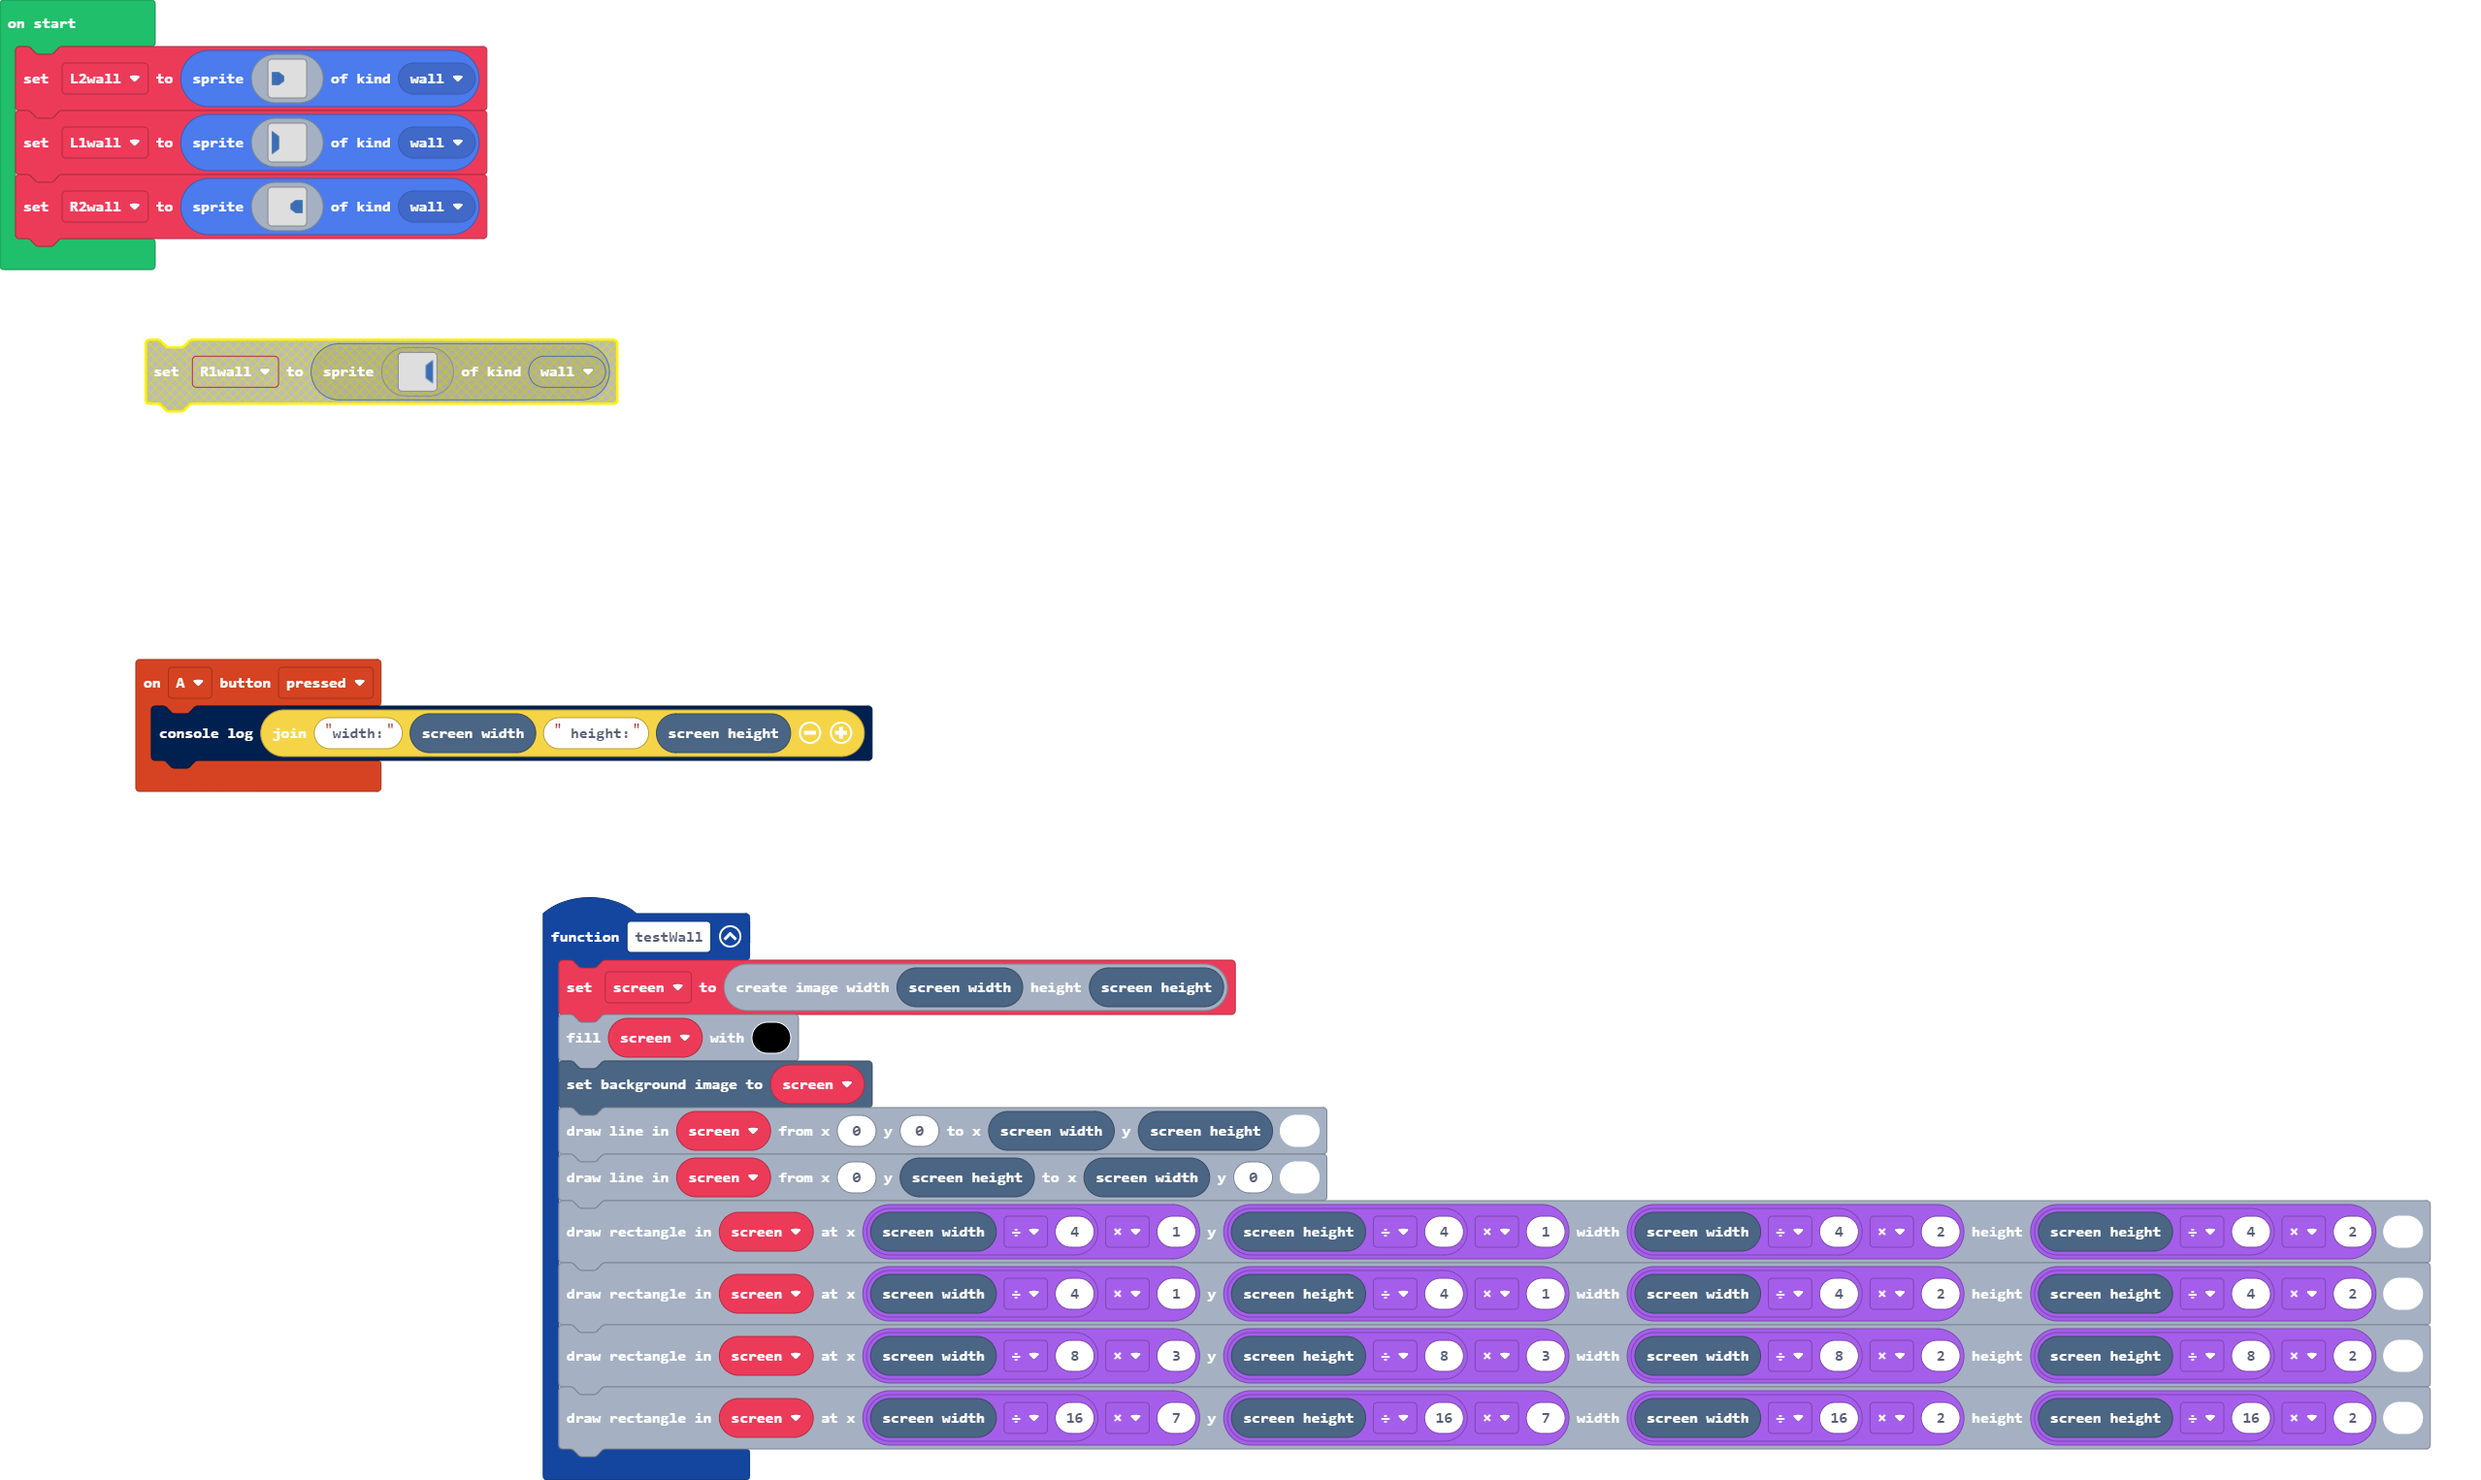
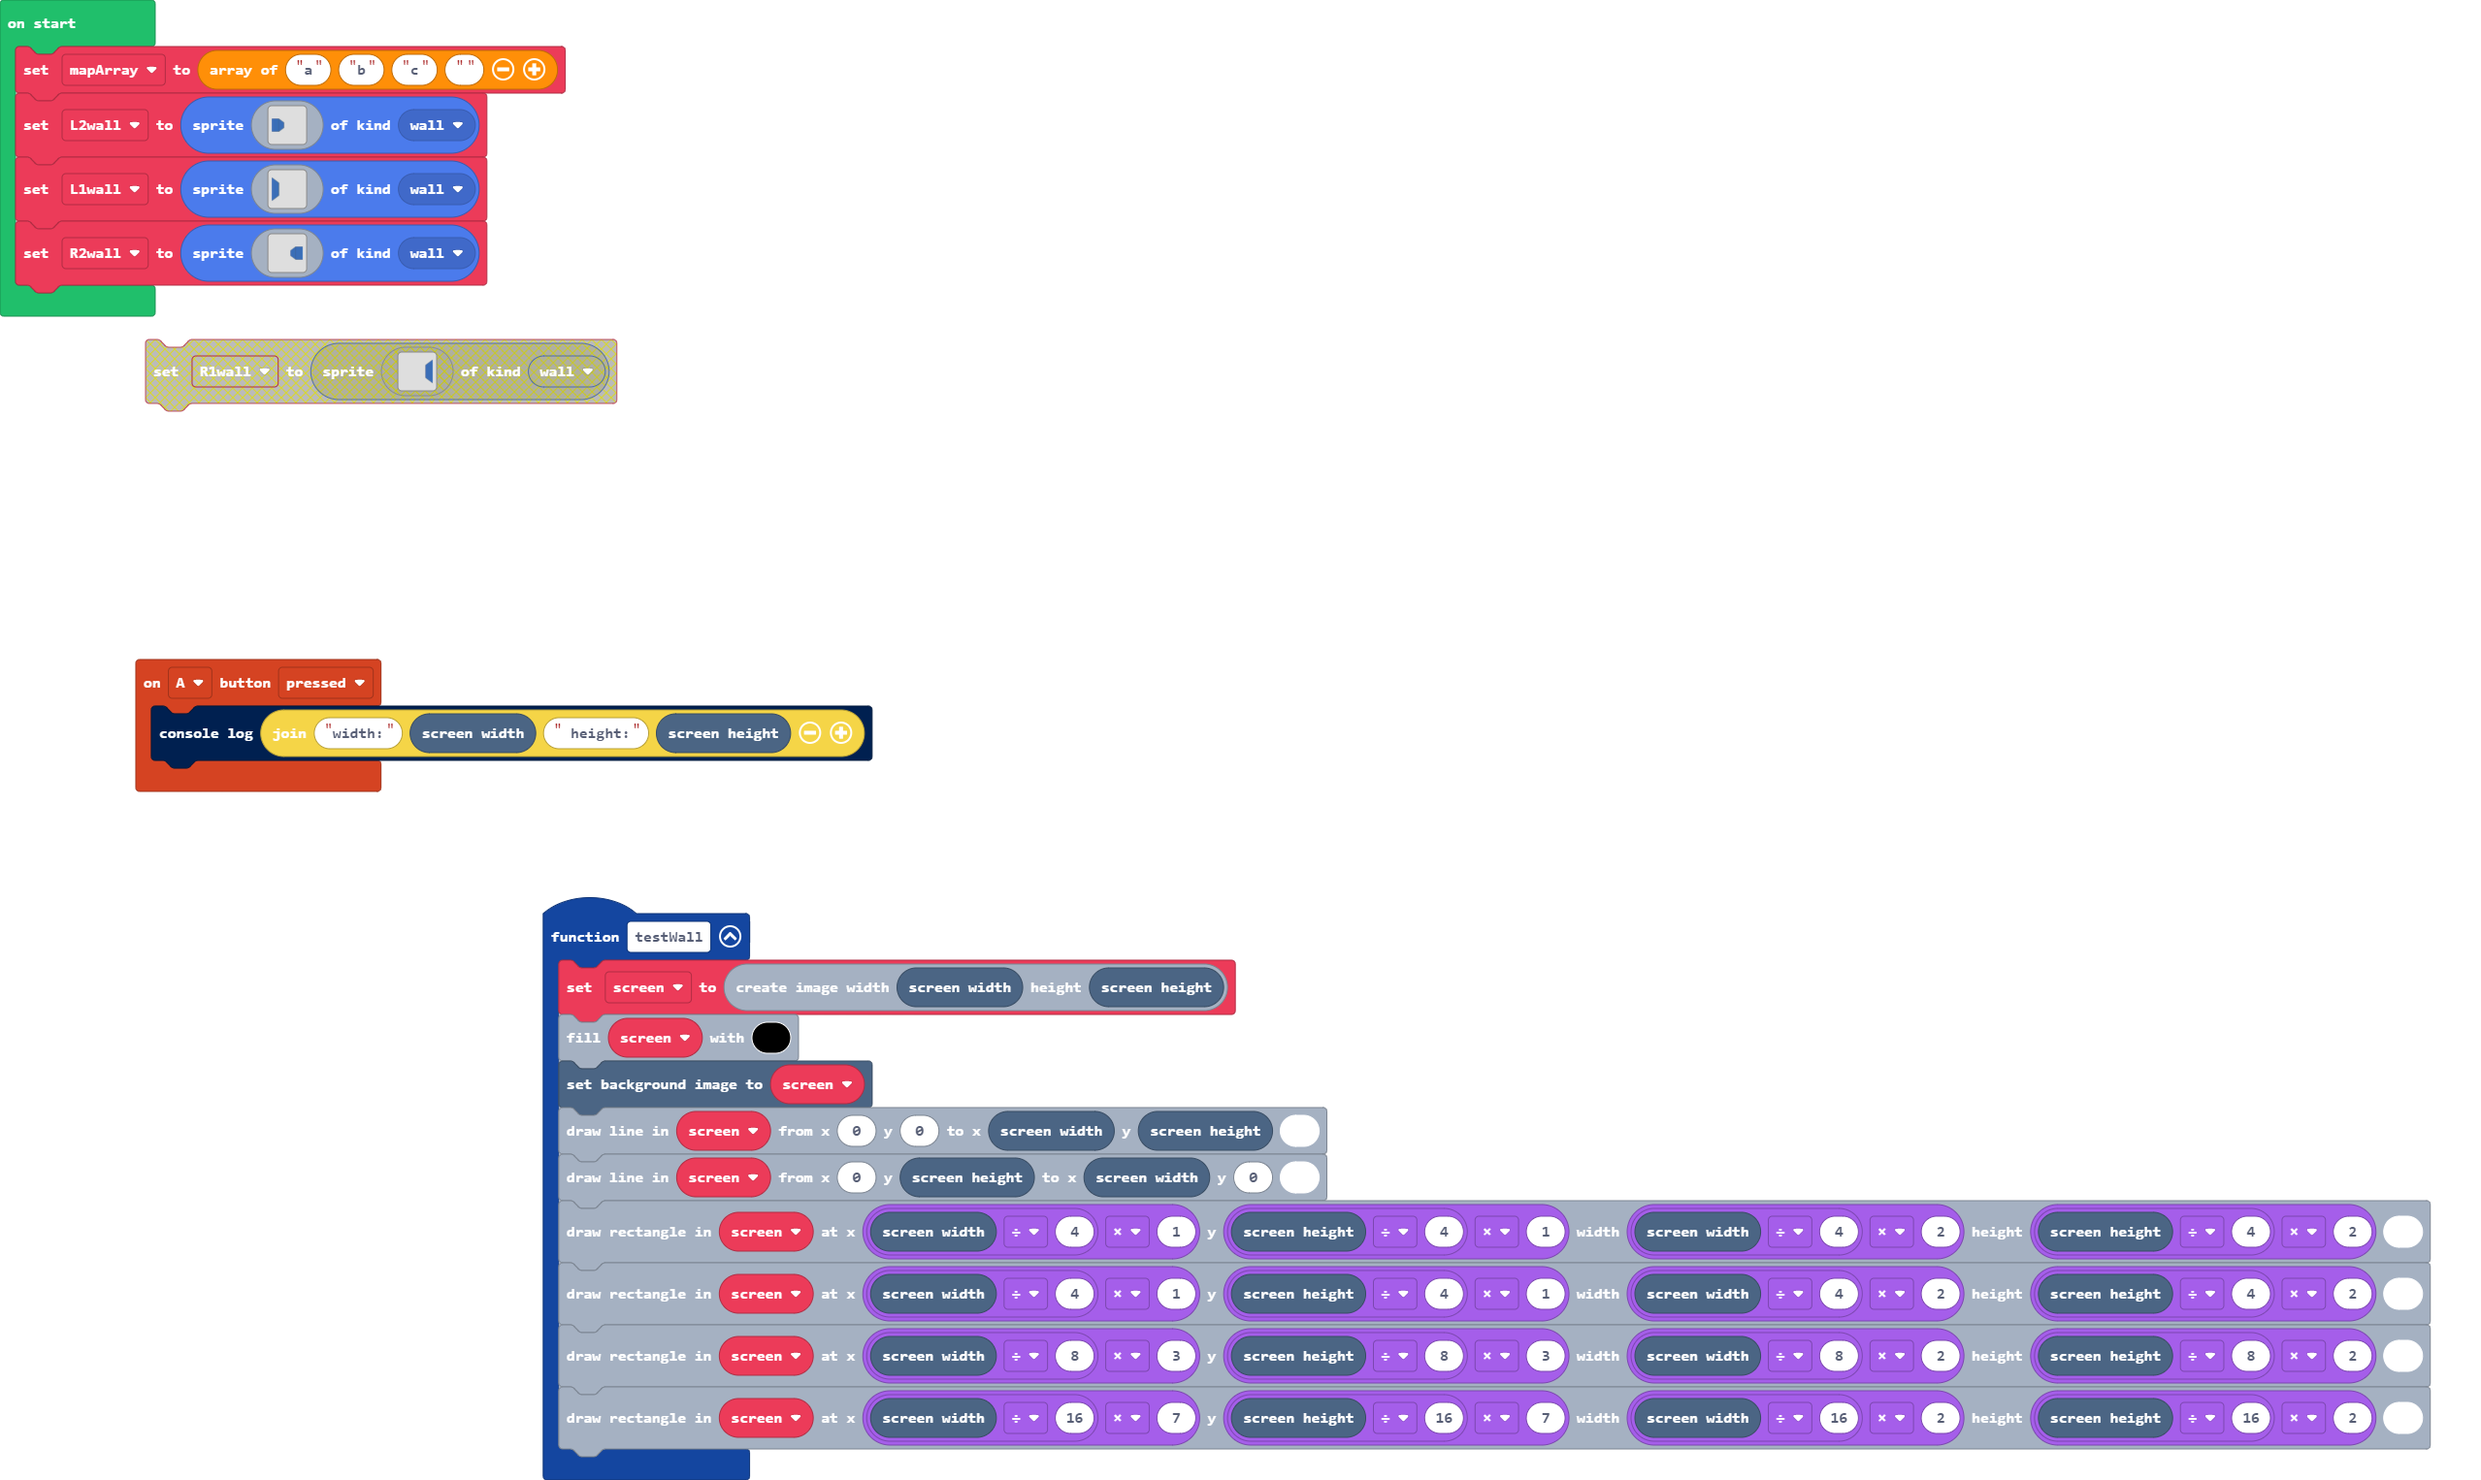
Update pxt.json, main.blocks, main.ts

Changed region(s): [[0.0, 0.0308, 0.2472, 0.2772]]

diff --git a/main.ts b/main.ts
@@ -16,6 +16,7 @@ function testWall () {
     screen2.drawRect(scene.screenWidth() / 16 * 7, scene.screenHeight() / 16 * 7, scene.screenWidth() / 16 * 2, scene.screenHeight() / 16 * 2, 1)
 }
 let screen2: Image = null
+let mapArray = ["a", "b", "c", ""]
 let L2wall = sprites.create(assets.image`L2`, SpriteKind.wall)
 let L1wall = sprites.create(assets.image`L1`, SpriteKind.wall)
 let R2wall = sprites.create(assets.image`R2`, SpriteKind.wall)
